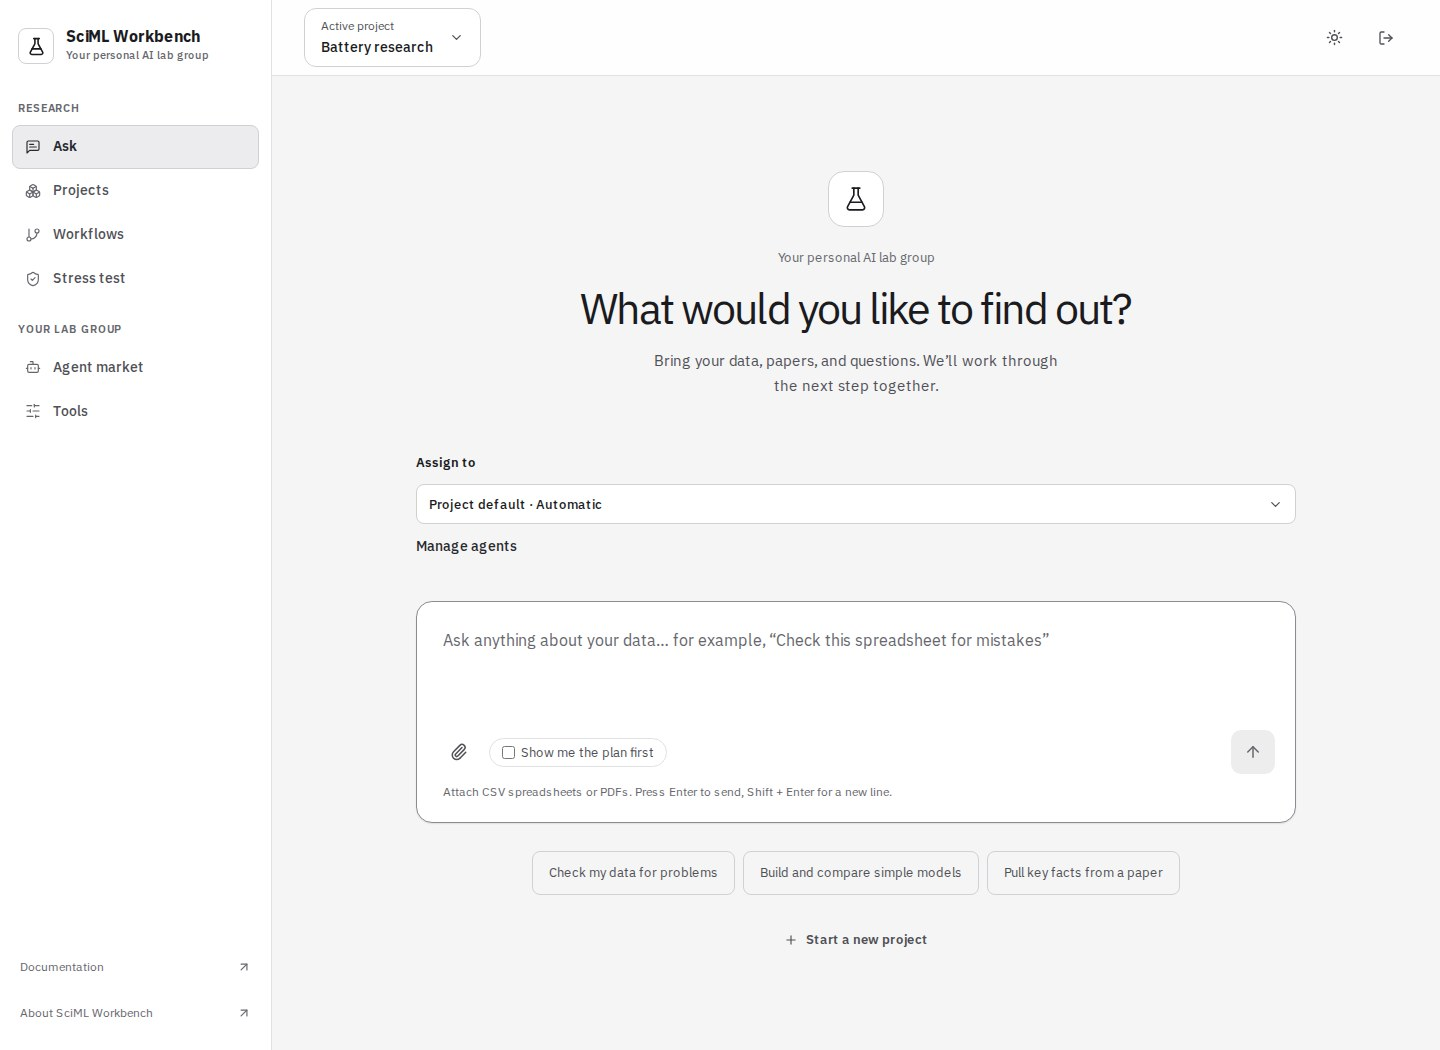
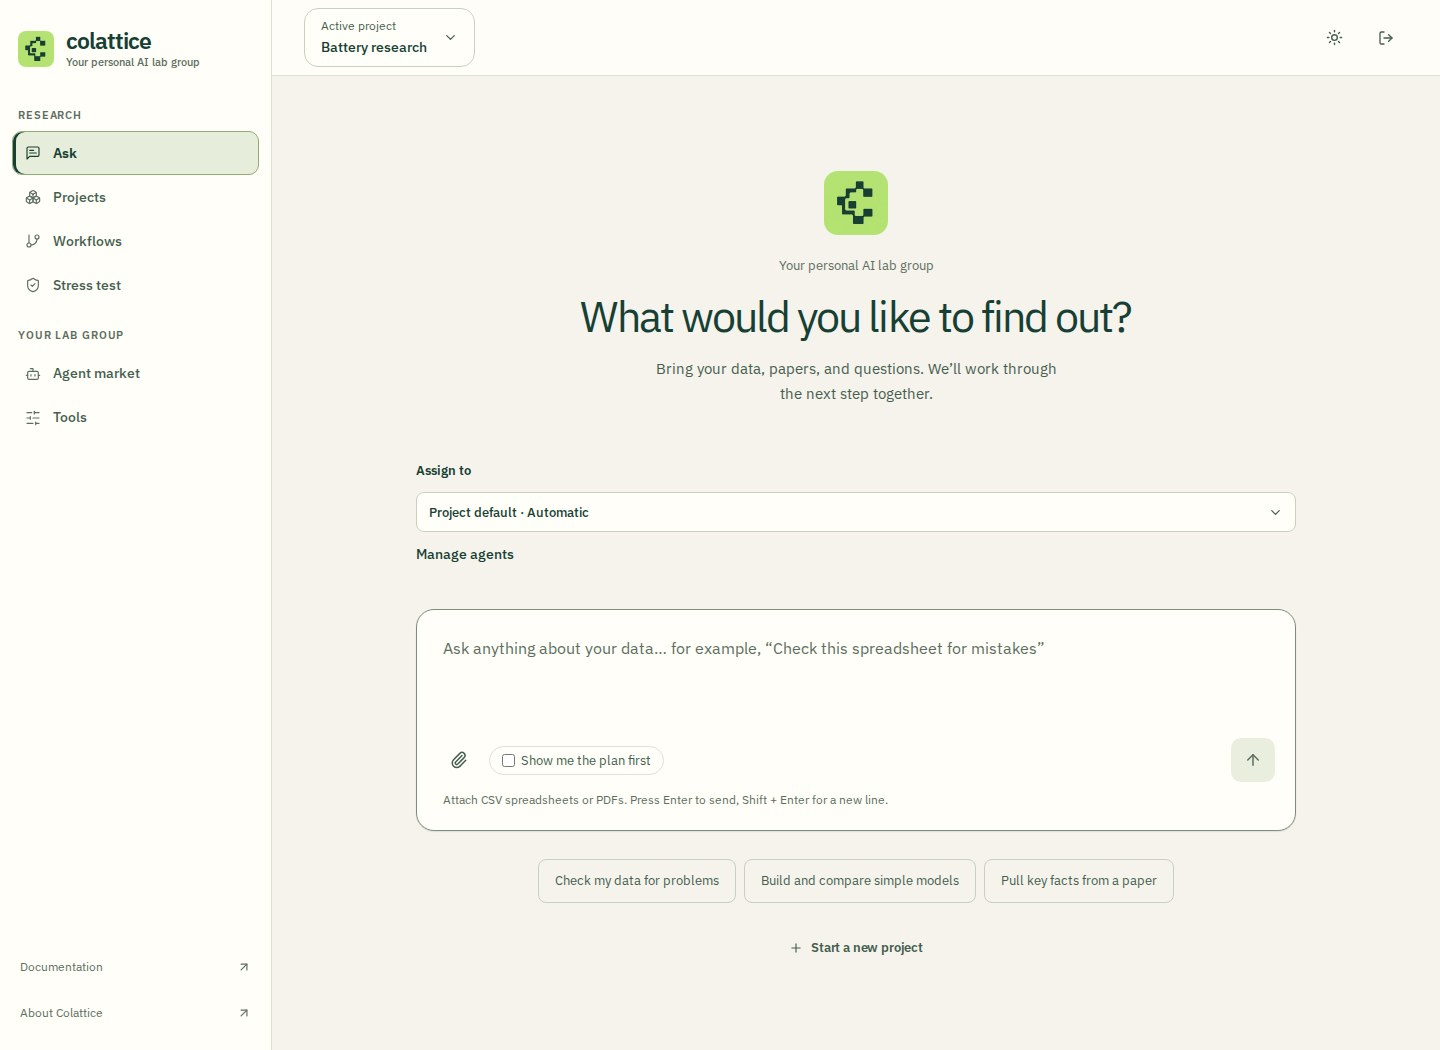
Refresh all Colattice product screenshots and generated metadata

diff --git a/README.md b/README.md
@@ -367,7 +367,7 @@ The default backend tests use temporary SQLite metadata; PostgreSQL locking and 
 
 ## Release status
 
-The latest product milestone is **0.2.1**, adding the public demo to the research studio, responsiveness, progress, and preview updates. Package metadata and the [release handoff](docs/release-handoff.md) still identify the **0.1.0 candidate**. The handoff separates implementation and local evidence from acceptance of a live model or hosted deployment; the product changelog does not certify those gates.
+The latest product milestone is **0.2.2**, introducing the Colattice identity and refreshed product previews alongside the public demo and research studio. Package metadata and the [release handoff](docs/release-handoff.md) still identify the **0.1.0 candidate**. The handoff separates implementation and local evidence from acceptance of a live model or hosted deployment; the product changelog does not certify those gates.
 
 | Area | Recorded status |
 |---|---|
